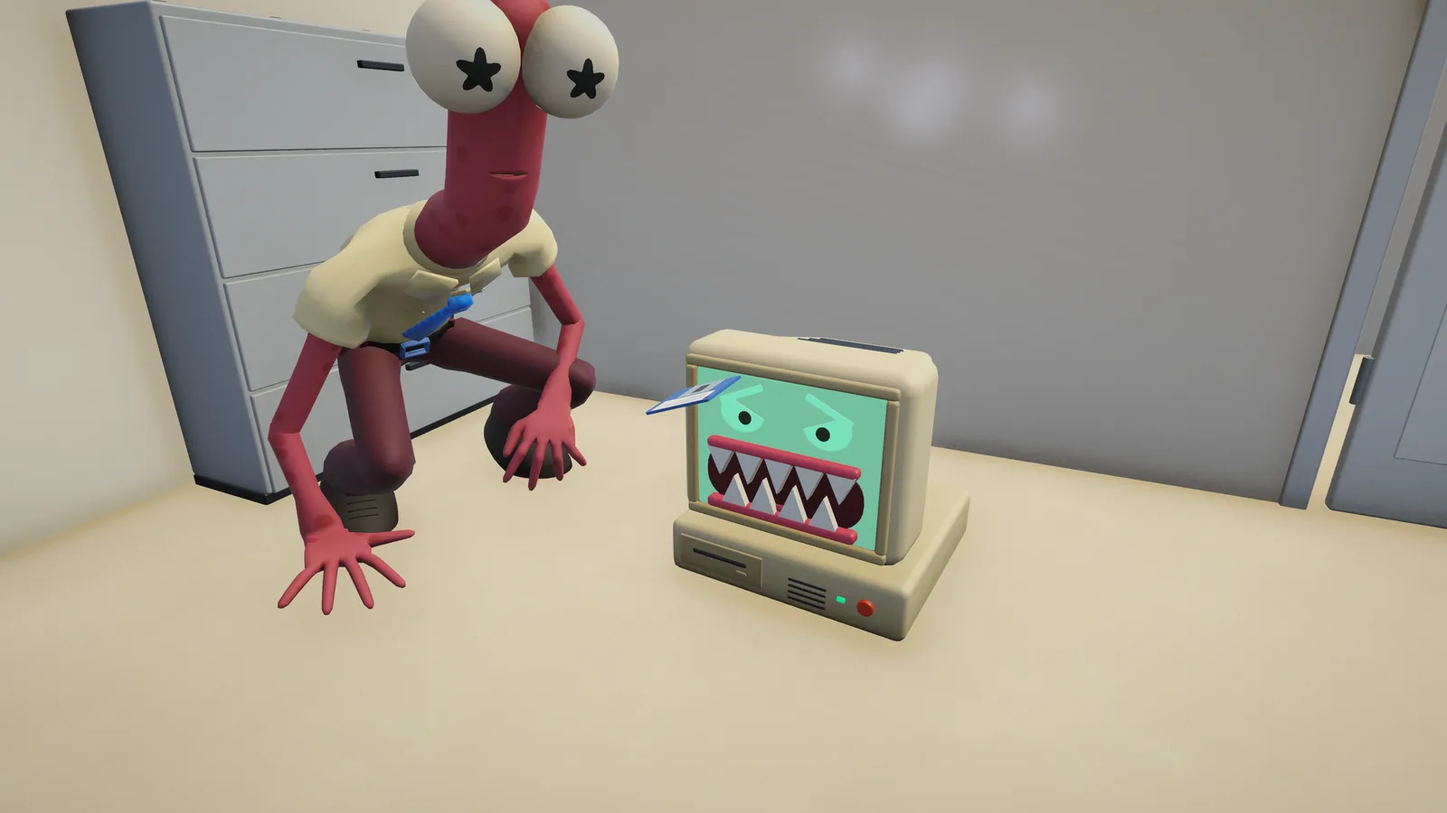
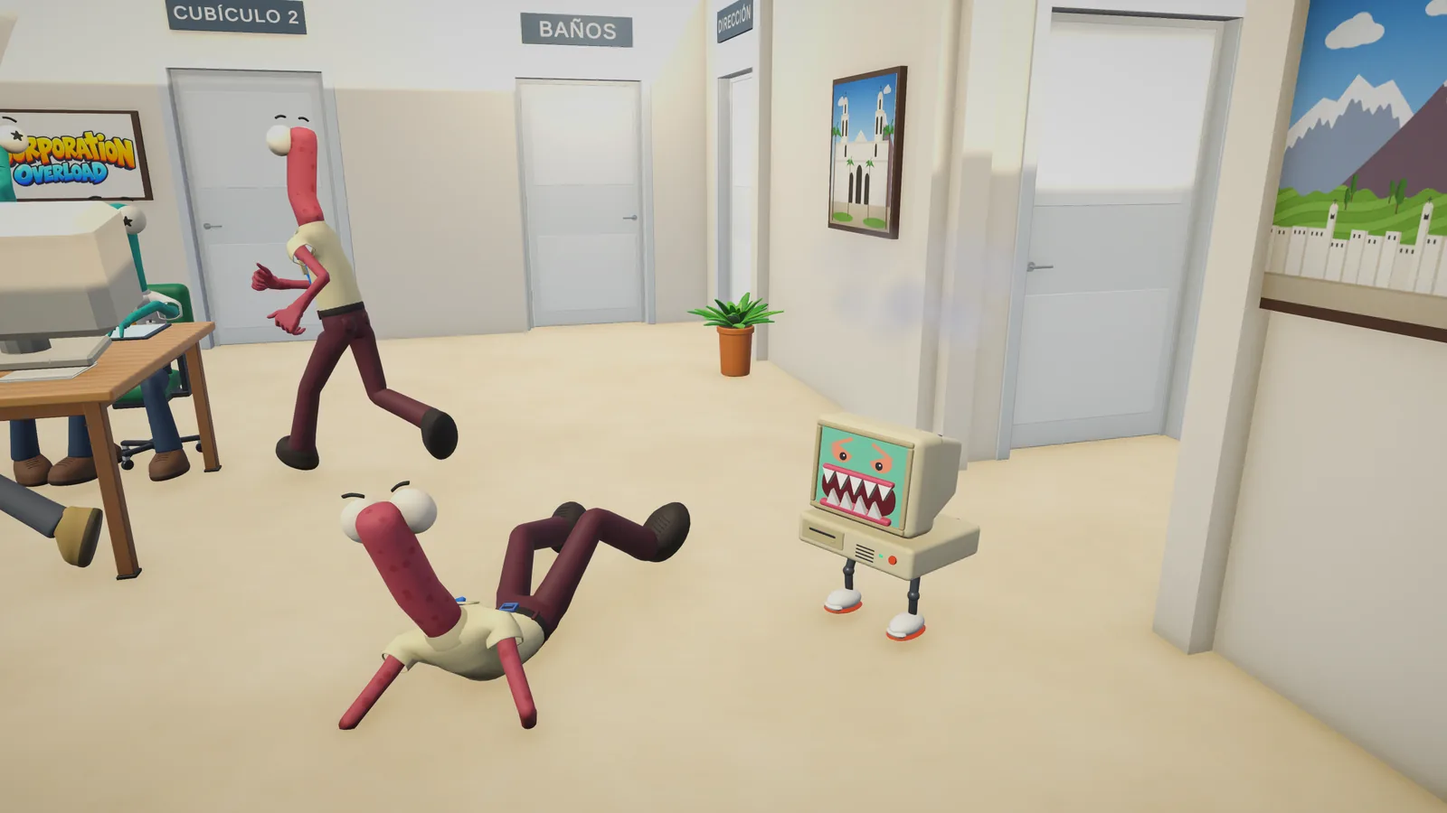
Capturas nuevas, manual de mecanicas y galeria de 11
- 11 capturas del juego actual: oficina llena y en movimiento, cortocircuito,
  Mordelon, planta carnivora, inodoro tenor, K.O. de oro y podio.
- Seccion nueva "Manual del empleado" (como se juega) en espanol e ingles.
- Galeria de 11 tickets; cabecera e imagen para redes rehechas.

diff --git a/index.html b/index.html
@@ -40,6 +40,7 @@
 
     <nav class="tasknav" aria-label="Secciones">
       <a href="#puesto" data-i18n="nav.job">El puesto</a>
+      <a href="#manual" data-i18n="nav.manual">Cómo se juega</a>
       <a href="#gameplay" data-i18n="nav.video">Gameplay</a>
       <a href="#caos" data-i18n="nav.chaos">El caos</a>
       <a href="#incidencias" data-i18n="nav.gallery">Capturas</a>
@@ -60,6 +61,7 @@
     <ul>
       <li><a href="#inicio"><span class="ico">🏢</span><span data-i18n="nav.home">Inicio</span></a></li>
       <li><a href="#puesto"><span class="ico">📋</span><span data-i18n="nav.job">El puesto</span></a></li>
+      <li><a href="#manual"><span class="ico">📘</span><span data-i18n="nav.manual">Cómo se juega</span></a></li>
       <li><a href="#gameplay"><span class="ico">▶</span><span data-i18n="nav.video">Gameplay</span></a></li>
       <li><a href="#caos"><span class="ico">⚡</span><span data-i18n="nav.chaos">El caos</span></a></li>
       <li><a href="#incidencias"><span class="ico">📸</span><span data-i18n="nav.gallery">Capturas</span></a></li>
@@ -127,7 +129,7 @@
         <div class="win__body">
           <span class="duty__n">1</span>
           <h3 data-i18n="job.d1.title">Haz tus tareas</h3>
-          <p data-i18n="job.d1.text">Llega, siéntate en tu PC y acepta las tareas del correo: reiniciar el router, traer café, calmar al PC Mordelón… Cada una completada suma puntos.</p>
+          <p data-i18n="job.d1.text">Llega, siéntate en tu PC y acepta las tareas del correo: regar la planta carnívora, desatascar al inodoro que canta, calmar al PC Mordelón… Cada una completada a tiempo suma puntos.</p>
           <img src="assets/img/shots/04_tu_pc_tus_tareas_thumb.webp" alt="" loading="lazy" width="720" height="405">
         </div>
       </article>
@@ -147,8 +149,8 @@
         <div class="win__body">
           <span class="duty__n">3</span>
           <h3 data-i18n="job.d3.title">Sé el empleado del mes</h3>
-          <p data-i18n="job.d3.text">Quien termine la jornada con más puntos se queda con el puesto (y con la foto en la pared). El resto, a recursos humanos.</p>
-          <img src="assets/img/shots/07_fiesta_en_horario_laboral_thumb.webp" alt="" loading="lazy" width="720" height="405">
+          <p data-i18n="job.d3.text">Al final de la semana, quien tenga más puntos sube al podio con corona y capa. El resto, a recursos humanos.</p>
+          <img src="assets/img/shots/11_empleado_del_mes_thumb.webp" alt="" loading="lazy" width="720" height="405">
         </div>
       </article>
     </div>
@@ -162,6 +164,60 @@
         <li data-i18n="req.4">De 1 a 7 compañeros dispuestos a perder tu amistad</li>
       </ul>
     </aside>
+  </div>
+</section>
+
+<!-- ============ MANUAL (mecanicas) ============ -->
+<section class="paper paper--manual" id="manual">
+  <div class="wrap">
+    <header class="sec-head">
+      <p class="memo-line memo-line--dark"><span data-i18n="man.memo">Memo Nº 0002-B</span> · <span data-i18n="man.from">De: Formación de nuevos empleados</span></p>
+      <h2 data-i18n="man.title">Manual del empleado</h2>
+      <p class="lead" data-i18n="man.lead">Todo lo que necesitas para sobrevivir a tu primera semana en Coorporation S.A. Léelo entero: tus compañeros no lo harán.</p>
+    </header>
+
+    <ol class="manual">
+      <li class="manual__item">
+        <span class="manual__ico" aria-hidden="true">🕘</span>
+        <h3 data-i18n="man.1.t">Una semana de oficina</h3>
+        <p data-i18n="man.1.x">Cinco días de trabajo. Cada mañana tienes unos segundos para llegar a tu PC y elegir tus tareas. Luego empieza la jornada… y al cierre se reparten los puntos.</p>
+      </li>
+      <li class="manual__item">
+        <span class="manual__ico" aria-hidden="true">📧</span>
+        <h3 data-i18n="man.2.t">Las tareas llegan al correo</h3>
+        <p data-i18n="man.2.x">Acepta las que quieras: regar una planta, reiniciar un PC, desatascar el baño. Cada una tiene su plazo. Cúmplela a tiempo y suma; si se te pasa, resta.</p>
+      </li>
+      <li class="manual__item">
+        <span class="manual__ico" aria-hidden="true">☕</span>
+        <h3 data-i18n="man.3.t">Sabotea sin que se note</h3>
+        <p data-i18n="man.3.x">Un café sobre el PC de otro y… pantalla azul. Ya no puede trabajar hasta reiniciarlo. Y si te ven cerca, tranquilo: tenías una tarea justo ahí.</p>
+      </li>
+      <li class="manual__item">
+        <span class="manual__ico" aria-hidden="true">🖐</span>
+        <h3 data-i18n="man.4.t">Todo se puede lanzar</h3>
+        <p data-i18n="man.4.x">Tazas, bolas de papel, la fregona. Mantén pulsado para cargar el tiro y suelta para lanzar. ¿Con las manos vacías? Un buen puñetazo también funciona.</p>
+      </li>
+      <li class="manual__item">
+        <span class="manual__ico" aria-hidden="true">😤</span>
+        <h3 data-i18n="man.5.t">Compañeros con memoria</h3>
+        <p data-i18n="man.5.x">La oficina está llena de compañeros con su rutina: su café, su PC, su planta. Si les tocas las narices, se acuerdan de ti… y te devuelven el golpe.</p>
+      </li>
+      <li class="manual__item">
+        <span class="manual__ico" aria-hidden="true">🦷</span>
+        <h3 data-i18n="man.6.t">Objetos con vida propia</h3>
+        <p data-i18n="man.6.x">Un PC con patas que muerde, un inodoro que canta ópera, una planta carnívora que esconde un código en sus antenas. Te los encontrarás por tus tareas… o te encontrarán ellos.</p>
+      </li>
+      <li class="manual__item">
+        <span class="manual__ico" aria-hidden="true">✨</span>
+        <h3 data-i18n="man.7.t">Nada está en su sitio</h3>
+        <p data-i18n="man.7.x">Las manchas cambian de lugar cada mañana y, de vez en cuando, aparece un lingote de oro. Lánzalo a tiempo: deja a cualquiera viendo pajaritos.</p>
+      </li>
+      <li class="manual__item">
+        <span class="manual__ico" aria-hidden="true">🏆</span>
+        <h3 data-i18n="man.8.t">El viernes, el podio</h3>
+        <p data-i18n="man.8.x">El que más puntos sume sube al podio con corona y capa. Y para celebrarlo, pelea libre con armas de juguete: sartén, piruleta y alguna bomba.</p>
+      </li>
+    </ol>
   </div>
 </section>
 
@@ -211,7 +267,7 @@
       <li class="recipe">
         <img src="assets/img/shots/03_pc_mordelon_thumb.webp" alt="" loading="lazy" width="720" height="405">
         <p class="recipe__eq"><span data-i18n="chaos.r3a">Tarea</span> <i>+</i> <span data-i18n="chaos.r3b">PC viejo</span> <i>=</i> <b data-i18n="chaos.r3c">PC Mordelón</b></p>
-        <p data-i18n="chaos.r3t">Algunos objetos despiertan cuando alguien tiene su tarea: el PC que muerde, el archivador sin fondo, el inodoro tenor.</p>
+        <p data-i18n="chaos.r3t">Algunos objetos despiertan cuando alguien tiene su tarea: el PC que muerde, el inodoro tenor, la planta carnívora.</p>
       </li>
     </ol>
 
@@ -232,15 +288,15 @@
       <li class="ticket ticket--wide">
         <a href="assets/img/shots/01_caos_en_la_oficina.webp">
           <span class="ticket__head"><b>INC-0001</b><span class="prio prio--red" data-i18n="gal.p1">Prioridad: crítica</span></span>
-          <img src="assets/img/shots/01_caos_en_la_oficina_thumb.webp" alt="Un empleado golpea a otro por la espalda mientras un PC echa humo al fondo" data-i18n-alt="gal.a1" loading="lazy" width="720" height="405">
+          <img src="assets/img/shots/01_caos_en_la_oficina_thumb.webp" alt="La oficina llena de empleados mientras alguien lanza un café y un PC echa humo" data-i18n-alt="gal.a1" loading="lazy" width="720" height="405">
           <span class="ticket__title" data-i18n="gal.t1">Caos en la oficina</span>
-          <span class="ticket__text" data-i18n="gal.x1">Un golpe por la espalda y un PC humeando al fondo. Un martes cualquiera.</span>
+          <span class="ticket__text" data-i18n="gal.x1">Un café en pleno vuelo, un PC que ya echa humo y toda la oficina a su alrededor. Un martes cualquiera.</span>
         </a>
       </li>
       <li class="ticket">
         <a href="assets/img/shots/02_cortocircuito.webp">
           <span class="ticket__head"><b>INC-0002</b><span class="prio prio--red" data-i18n="gal.p2">Prioridad: alta</span></span>
-          <img src="assets/img/shots/02_cortocircuito_thumb.webp" alt="Un PC con pantalla azul tras un cortocircuito" data-i18n-alt="gal.a2" loading="lazy" width="720" height="405">
+          <img src="assets/img/shots/02_cortocircuito_thumb.webp" alt="Un PC con pantalla azul tras un cortocircuito; su dueño salta de la silla" data-i18n-alt="gal.a2" loading="lazy" width="720" height="405">
           <span class="ticket__title" data-i18n="gal.t2">Cortocircuito</span>
           <span class="ticket__text" data-i18n="gal.x2">Alguien derramó café sobre el PC de un compañero. Por accidente, claro.</span>
         </a>
@@ -248,41 +304,41 @@
       <li class="ticket">
         <a href="assets/img/shots/03_pc_mordelon.webp">
           <span class="ticket__head"><b>INC-0003</b><span class="prio prio--orange" data-i18n="gal.p3">Prioridad: muerde</span></span>
-          <img src="assets/img/shots/03_pc_mordelon_thumb.webp" alt="Un ordenador viejo con dientes asusta a un empleado" data-i18n-alt="gal.a3" loading="lazy" width="720" height="405">
+          <img src="assets/img/shots/03_pc_mordelon_thumb.webp" alt="Un ordenador con patas enseña los dientes a un empleado que cae al suelo" data-i18n-alt="gal.a3" loading="lazy" width="720" height="405">
           <span class="ticket__title" data-i18n="gal.t3">El PC Mordelón</span>
-          <span class="ticket__text" data-i18n="gal.x3">Este ordenador muerde. Hay una tarea para calmarlo.</span>
+          <span class="ticket__text" data-i18n="gal.x3">Anda, caza y muerde. Al menos deja tirita.</span>
         </a>
       </li>
       <li class="ticket">
         <a href="assets/img/shots/04_tu_pc_tus_tareas.webp">
           <span class="ticket__head"><b>INC-0004</b><span class="prio prio--blue" data-i18n="gal.p4">Prioridad: normal</span></span>
-          <img src="assets/img/shots/04_tu_pc_tus_tareas_thumb.webp" alt="El correo del PC con la agenda de tareas del día" data-i18n-alt="gal.a4" loading="lazy" width="720" height="405">
+          <img src="assets/img/shots/04_tu_pc_tus_tareas_thumb.webp" alt="Un empleado en su PC con el correo y la lista de tareas del día" data-i18n-alt="gal.a4" loading="lazy" width="720" height="405">
           <span class="ticket__title" data-i18n="gal.t4">Tu PC, tus tareas</span>
           <span class="ticket__text" data-i18n="gal.x4">Las tareas llegan al correo. Acepta, cumple y suma puntos.</span>
         </a>
       </li>
       <li class="ticket">
-        <a href="assets/img/shots/05_archivador_sin_fondo.webp">
-          <span class="ticket__head"><b>INC-0005</b><span class="prio prio--orange" data-i18n="gal.p5">Prioridad: ???</span></span>
-          <img src="assets/img/shots/05_archivador_sin_fondo_thumb.webp" alt="Un empleado frente a un archivador del que salen papeles volando" data-i18n-alt="gal.a5" loading="lazy" width="720" height="405">
-          <span class="ticket__title" data-i18n="gal.t5">El archivador sin fondo</span>
-          <span class="ticket__text" data-i18n="gal.x5">Tres cajones, solo uno correcto. Si fallas, los papeles vuelan.</span>
+        <a href="assets/img/shots/05_planta_carnivora.webp">
+          <span class="ticket__head"><b>INC-0005</b><span class="prio prio--orange" data-i18n="gal.p5">Prioridad: tiene hambre</span></span>
+          <img src="assets/img/shots/05_planta_carnivora_thumb.webp" alt="Una planta carnívora de tres cabezas abre la boca frente a un empleado asustado" data-i18n-alt="gal.a5" loading="lazy" width="720" height="405">
+          <span class="ticket__title" data-i18n="gal.t5">La planta carnívora</span>
+          <span class="ticket__text" data-i18n="gal.x5">Tres cabezas, un código en las antenas y mucho apetito. Dale de comer antes de que elija ella.</span>
         </a>
       </li>
       <li class="ticket">
         <a href="assets/img/shots/06_taza_voladora.webp">
           <span class="ticket__head"><b>INC-0006</b><span class="prio prio--red" data-i18n="gal.p6">Prioridad: alta</span></span>
-          <img src="assets/img/shots/06_taza_voladora_thumb.webp" alt="Una taza vuela hacia la cabeza de un empleado en la cafetería" data-i18n-alt="gal.a6" loading="lazy" width="720" height="405">
+          <img src="assets/img/shots/06_taza_voladora_thumb.webp" alt="Un empleado lanza una taza que estalla en la cabeza de otro en la cafetería" data-i18n-alt="gal.a6" loading="lazy" width="720" height="405">
           <span class="ticket__title" data-i18n="gal.t6">Taza voladora</span>
           <span class="ticket__text" data-i18n="gal.x6">Todo lo que cabe en la mano se puede lanzar.</span>
         </a>
       </li>
       <li class="ticket">
-        <a href="assets/img/shots/07_fiesta_en_horario_laboral.webp">
-          <span class="ticket__head"><b>INC-0007</b><span class="prio prio--green" data-i18n="gal.p7">Prioridad: ninguna</span></span>
-          <img src="assets/img/shots/07_fiesta_en_horario_laboral_thumb.webp" alt="Tres empleados bailan en la sala de descanso" data-i18n-alt="gal.a7" loading="lazy" width="720" height="405">
-          <span class="ticket__title" data-i18n="gal.t7">Fiesta en horario laboral</span>
-          <span class="ticket__text" data-i18n="gal.x7">Bailar también cuenta como pausa activa.</span>
+        <a href="assets/img/shots/07_inodoro_tenor.webp">
+          <span class="ticket__head"><b>INC-0007</b><span class="prio prio--green" data-i18n="gal.p7">Prioridad: do de pecho</span></span>
+          <img src="assets/img/shots/07_inodoro_tenor_thumb.webp" alt="Un inodoro con bigote y pajarita canta rodeado de notas musicales" data-i18n-alt="gal.a7" loading="lazy" width="720" height="405">
+          <span class="ticket__title" data-i18n="gal.t7">El inodoro tenor</span>
+          <span class="ticket__text" data-i18n="gal.x7">Canta ópera a pleno pulmón. Desatáscalo… si te atreves.</span>
         </a>
       </li>
       <li class="ticket">
@@ -296,9 +352,25 @@
       <li class="ticket">
         <a href="assets/img/shots/09_lobby_sala_llena.webp">
           <span class="ticket__head"><b>INC-0009</b><span class="prio prio--green" data-i18n="gal.p9">Estado: sala llena</span></span>
-          <img src="assets/img/shots/09_lobby_sala_llena_thumb.webp" alt="La sala de espera con los puestos de seis jugadores" data-i18n-alt="gal.a9" loading="lazy" width="720" height="405">
+          <img src="assets/img/shots/09_lobby_sala_llena_thumb.webp" alt="La sala de espera con los nombres de seis jugadores en sus puestos" data-i18n-alt="gal.a9" loading="lazy" width="720" height="405">
           <span class="ticket__title" data-i18n="gal.t9">Sala llena</span>
           <span class="ticket__text" data-i18n="gal.x9">Reúne a tu oficina por internet y elige departamento: Soporte TI o Legal y RR. HH.</span>
+        </a>
+      </li>
+      <li class="ticket">
+        <a href="assets/img/shots/10_ko_de_oro.webp">
+          <span class="ticket__head"><b>INC-0010</b><span class="prio prio--orange" data-i18n="gal.p10">Prioridad: brilla</span></span>
+          <img src="assets/img/shots/10_ko_de_oro_thumb.webp" alt="Un empleado K.O. en el suelo con pajaritos, junto a un lingote de oro" data-i18n-alt="gal.a10" loading="lazy" width="720" height="405">
+          <span class="ticket__title" data-i18n="gal.t10">K.O. de oro</span>
+          <span class="ticket__text" data-i18n="gal.x10">Un lingote de oro aparece al azar. Quien lo recibe en la cabeza ve pajaritos.</span>
+        </a>
+      </li>
+      <li class="ticket ticket--long">
+        <a href="assets/img/shots/11_empleado_del_mes.webp">
+          <span class="ticket__head"><b>INC-0011</b><span class="prio prio--green" data-i18n="gal.p11">Estado: ganador</span></span>
+          <img src="assets/img/shots/11_empleado_del_mes_thumb.webp" alt="Tres empleados en un podio con corona, capa y medallas mientras otros celebran" data-i18n-alt="gal.a11" loading="lazy" width="720" height="405">
+          <span class="ticket__title" data-i18n="gal.t11">Empleado del mes</span>
+          <span class="ticket__text" data-i18n="gal.x11">Al final de la semana, el podio: corona y capa para el primero, gorro de fiesta para el tercero.</span>
         </a>
       </li>
     </ul>

diff --git a/js/main.js b/js/main.js
@@ -11,7 +11,7 @@
   var EN = {
     "skip": "Skip to content",
     "start": "Start",
-    "nav.home": "Home", "nav.job": "The job", "nav.video": "Gameplay", "nav.chaos": "The chaos",
+    "nav.home": "Home", "nav.job": "The job", "nav.manual": "How to play", "nav.video": "Gameplay", "nav.chaos": "The chaos",
     "nav.gallery": "Screenshots", "nav.sheet": "Fact sheet", "nav.beta": "Beta on Steam",
     "hero.memo": "Internal memo #0001", "hero.to": "To: all staff", "hero.subject": "Subject: urgent",
     "hero.t1": "Do your tasks.", "hero.t2": "Sabotage your coworkers.", "hero.t3": "Be <em>employee of the month</em>.",
@@ -22,11 +22,30 @@
     "job.title": "Wanted: employee of the month",
     "job.lead": "<b>Coorporation Overload</b> is an online party game for up to 8 players, set in an office where everyone wants the same job. Finish your tasks to score points… and make sure nobody else can finish theirs.",
     "job.d1.bar": "Mail: today's agenda", "job.d1.title": "Do your tasks",
-    "job.d1.text": "Clock in, sit at your PC and accept tasks from your inbox: reboot the router, fetch coffee, calm down the Biting PC… Every finished task scores points.",
+    "job.d1.text": "Clock in, sit at your PC and accept tasks from your inbox: water the carnivorous plant, unclog the singing toilet, calm down the Biting PC… Every task finished on time scores points.",
     "job.d2.bar": "Warning: suspicious activity", "job.d2.title": "Sabotage your coworkers",
     "job.d2.text": "Coffee on someone else's PC, mugs flying through the air, punches in the back. Your tasks give you the perfect excuse to walk past their desk.",
     "job.d3.bar": "A note from management", "job.d3.title": "Be employee of the month",
-    "job.d3.text": "Whoever ends the workday with the most points gets the title (and the photo on the wall). Everyone else: report to HR.",
+    "job.d3.text": "At the end of the week, whoever has the most points takes the podium with a crown and a cape. Everyone else: report to HR.",
+    "man.memo": "Memo #0002-B", "man.from": "From: New hire training",
+    "man.title": "Employee handbook",
+    "man.lead": "Everything you need to survive your first week at Coorporation Inc. Read it all: your coworkers won't.",
+    "man.1.t": "One week at the office",
+    "man.1.x": "Five workdays. Every morning you get a few seconds to reach your PC and pick your tasks. Then the workday starts… and at closing time, points are handed out.",
+    "man.2.t": "Tasks arrive by email",
+    "man.2.x": "Accept the ones you want: water a plant, reboot a PC, unclog the bathroom. Each one has a deadline. Finish it on time and you score; miss it and you lose points.",
+    "man.3.t": "Sabotage on the sly",
+    "man.3.x": "Coffee on someone else's PC and… blue screen. They can't work until it's rebooted. And if someone sees you nearby, relax: you had a task right there.",
+    "man.4.t": "Everything is throwable",
+    "man.4.x": "Mugs, paper balls, the mop. Hold to charge the throw and release to let it fly. Empty-handed? A good punch works too.",
+    "man.5.t": "Coworkers who remember",
+    "man.5.x": "The office is full of coworkers with their own routines: their coffee, their PC, their plant. Mess with them and they'll remember you… and hit you back.",
+    "man.6.t": "Objects with a life of their own",
+    "man.6.x": "A PC with legs that bites, a toilet that sings opera, a carnivorous plant that hides a code in its antennae. Your tasks will lead you to them… or they'll find you first.",
+    "man.7.t": "Nothing stays put",
+    "man.7.x": "Stains move every morning and, every now and then, a gold bar shows up. Throw it in time: it leaves anyone seeing little birds.",
+    "man.8.t": "Friday means podium",
+    "man.8.x": "Whoever scores the most points takes the podium with a crown and a cape. And to celebrate: a free-for-all with toy weapons. Frying pan, lollipop and the odd bomb.",
     "req.title": "Job requirements",
     "req.1": "Good aim with coffee mugs", "req.2": "Zero remorse",
     "req.3": "Tolerance for toilets that sing opera", "req.4": "1 to 7 coworkers willing to lose your friendship",
@@ -42,30 +61,35 @@
     "chaos.r2a": "Mug", "chaos.r2b": "Head", "chaos.r2c": "Knockdown",
     "chaos.r2t": "Anything you can hold, you can throw. Charge the shot, aim, and say goodbye to the mug.",
     "chaos.r3a": "Task", "chaos.r3b": "Old PC", "chaos.r3c": "Biting PC",
-    "chaos.r3t": "Some objects wake up when someone has their task: the PC that bites, the bottomless filing cabinet, the tenor toilet.",
+    "chaos.r3t": "Some objects wake up when someone has their task: the PC that bites, the tenor toilet, the carnivorous plant.",
     "chaos.foot": "Press any key to keep sabotaging",
     "gal.memo": "Memo #0004", "gal.from": "Tech support", "gal.title": "Reported incidents",
     "gal.lead": "Real in-game screenshots. Tap any of them to see it full size.",
     "gal.p1": "Priority: critical", "gal.p2": "Priority: high", "gal.p3": "Priority: bites", "gal.p4": "Priority: normal",
-    "gal.p5": "Priority: ???", "gal.p6": "Priority: high", "gal.p7": "Priority: none", "gal.p8": "Priority: info", "gal.p9": "Status: room full",
-    "gal.t1": "Chaos at the office", "gal.x1": "A punch in the back and a PC smoking in the background. Just another Tuesday.",
+    "gal.p5": "Priority: hungry", "gal.p6": "Priority: high", "gal.p7": "Priority: high C", "gal.p8": "Priority: info", "gal.p9": "Status: room full",
+    "gal.p10": "Priority: shiny", "gal.p11": "Status: winner",
+    "gal.t1": "Chaos at the office", "gal.x1": "A coffee mid-flight, a PC already smoking and the whole office around it. Just another Tuesday.",
     "gal.t2": "Short circuit", "gal.x2": "Someone spilled coffee on a coworker's PC. By accident, of course.",
-    "gal.t3": "The Biting PC", "gal.x3": "This computer bites. There's a task to calm it down.",
+    "gal.t3": "The Biting PC", "gal.x3": "It walks, it hunts, it bites. At least it leaves a band-aid.",
     "gal.t4": "Your PC, your tasks", "gal.x4": "Tasks arrive in your inbox. Accept, finish, score.",
-    "gal.t5": "The bottomless filing cabinet", "gal.x5": "Three drawers, only one is right. Miss, and the papers fly.",
+    "gal.t5": "The carnivorous plant", "gal.x5": "Three heads, a code in its antennae and a big appetite. Feed it before it picks its own lunch.",
     "gal.t6": "Flying mug", "gal.x6": "Anything you can hold, you can throw.",
-    "gal.t7": "Partying on company time", "gal.x7": "Dancing counts as an active break.",
+    "gal.t7": "The tenor toilet", "gal.x7": "It sings opera at the top of its lungs. Unclog it… if you dare.",
     "gal.t8": "The menu is the office", "gal.x8": "Create a room from the monitor or join with a code at the copier.",
     "gal.t9": "Room full", "gal.x9": "Gather your office online and pick a department: IT Support or Legal & HR.",
-    "gal.a1": "An employee punches another in the back while a PC smokes in the background",
-    "gal.a2": "A PC showing a blue screen after a short circuit",
-    "gal.a3": "An old computer with teeth scares an employee",
-    "gal.a4": "The PC inbox showing today's task agenda",
-    "gal.a5": "An employee in front of a filing cabinet with papers flying out",
-    "gal.a6": "A mug flies toward an employee's head in the cafeteria",
-    "gal.a7": "Three employees dance in the break room",
+    "gal.t10": "Golden K.O.", "gal.x10": "A gold bar shows up at random. Whoever takes it to the head sees little birds.",
+    "gal.t11": "Employee of the month", "gal.x11": "At the end of the week, the podium: crown and cape for first place, a party hat for third.",
+    "gal.a1": "The office full of employees while someone throws a coffee and a PC smokes",
+    "gal.a2": "A PC with a blue screen after a short circuit; its owner jumps out of the chair",
+    "gal.a3": "A computer with legs bares its teeth at an employee falling to the floor",
+    "gal.a4": "An employee at their PC with the inbox and today's task list",
+    "gal.a5": "A three-headed carnivorous plant opens its mouths at a frightened employee",
+    "gal.a6": "An employee throws a mug that shatters on another's head in the cafeteria",
+    "gal.a7": "A toilet with a mustache and a bow tie sings surrounded by musical notes",
     "gal.a8": "The main menu: a miniature office with a copier and monitors",
-    "gal.a9": "The waiting room with six players' desks",
+    "gal.a9": "The waiting room with six players' names on their desks",
+    "gal.a10": "An employee knocked out on the floor with little birds, next to a gold bar",
+    "gal.a11": "Three employees on a podium with a crown, a cape and medals while others celebrate",
     "sheet.memo": "Memo #0005", "sheet.from": "Notice board", "sheet.title": "Fact sheet",
     "sheet.badge": "Employee ID", "sheet.genre": "Genre", "sheet.genre.v": "Competitive party game",
     "sheet.players": "Players", "sheet.players.v": "Up to 8, online", "sheet.platform": "Platform",

diff --git a/css/style.css b/css/style.css
@@ -281,6 +281,32 @@ p { margin: 0; }
 .postit li::before { content: ""; position: absolute; left: 0; top: 2px; width: 20px; height: 20px; border: 2px solid var(--ink); background: var(--white); border-radius: 3px; }
 .postit li::after { content: "✓"; position: absolute; left: 3px; top: -6px; font: 700 1.5rem/1 var(--body); color: var(--red); }
 
+/* ---------- Manual del empleado (mecanicas) ---------- */
+.paper--manual { border-top: 3px dashed rgba(19, 26, 43, .25); padding-top: 90px; }
+.manual { list-style: none; margin: 0; padding: 0; display: grid; grid-template-columns: repeat(4, 1fr); gap: 22px; counter-reset: man; }
+.manual__item {
+  position: relative;
+  counter-increment: man;
+  padding: 24px 20px 22px;
+  background: var(--white);
+  border: 3px solid var(--ink);
+  border-radius: var(--radius);
+  box-shadow: var(--shadow-sm);
+}
+.manual__item:nth-child(odd) { transform: rotate(-.6deg); }
+.manual__item:nth-child(even) { transform: rotate(.5deg); }
+.manual__item::after {
+  content: counter(man, decimal-leading-zero);
+  position: absolute; top: 12px; right: 14px;
+  font: 600 .8rem/1 var(--mono); color: rgba(19, 26, 43, .45);
+}
+.manual__ico { display: inline-grid; place-items: center; width: 52px; height: 52px; margin-bottom: 12px; font-size: 1.7rem; background: var(--yellow); border: 3px solid var(--ink); border-radius: 50%; }
+.manual__item h3 { margin-bottom: 8px; font-size: 1.15rem; }
+.manual__item p { margin: 0; font-size: .97rem; color: #3b4258; }
+
+/* Captura doble al final de la galeria (cierra la cuadricula de tres) */
+.ticket--long { grid-column: span 2; }
+
 /* ---------- Gameplay ---------- */
 .desk {
   padding: 100px 0 110px;
@@ -475,6 +501,7 @@ body.is-crashing { animation: shake .35s; }
   .duty:nth-child(n) { transform: none; }
   .tickets { grid-template-columns: 1fr 1fr; }
   .ticket--wide { grid-row: auto; }
+  .manual { grid-template-columns: 1fr 1fr; }
 }
 @media (max-width: 760px) {
   body { font-size: 16px; }
@@ -495,8 +522,10 @@ body.is-crashing { animation: shake .35s; }
   .paper::before { display: none; }
   .sec-head { margin-bottom: 32px; }
   .duties, .recipes, .tickets, .board { grid-template-columns: 1fr; }
-  .ticket--wide { grid-column: auto; }
+  .ticket--wide, .ticket--long { grid-column: auto; }
   .ticket--wide .ticket__title { font-size: 1.6rem; }
+  .manual { grid-template-columns: 1fr; }
+  .manual__item:nth-child(n) { transform: none; }
   .postit { margin-top: 44px; }
   .board { gap: 70px; }
   .form-sheet { padding: 70px 22px 30px; }
